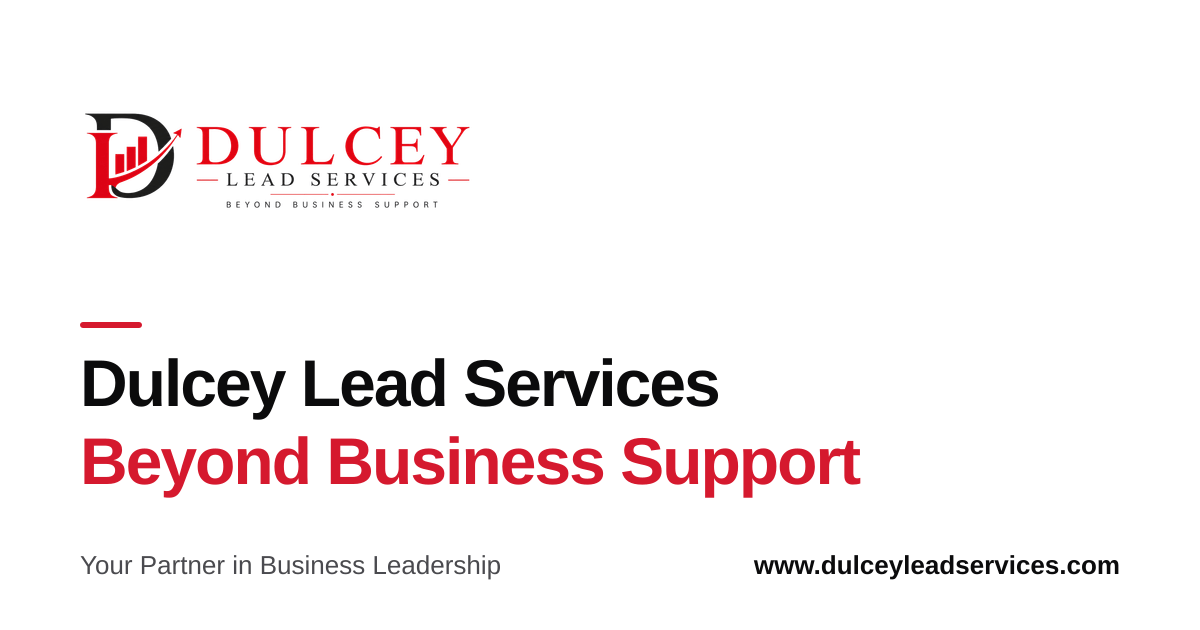
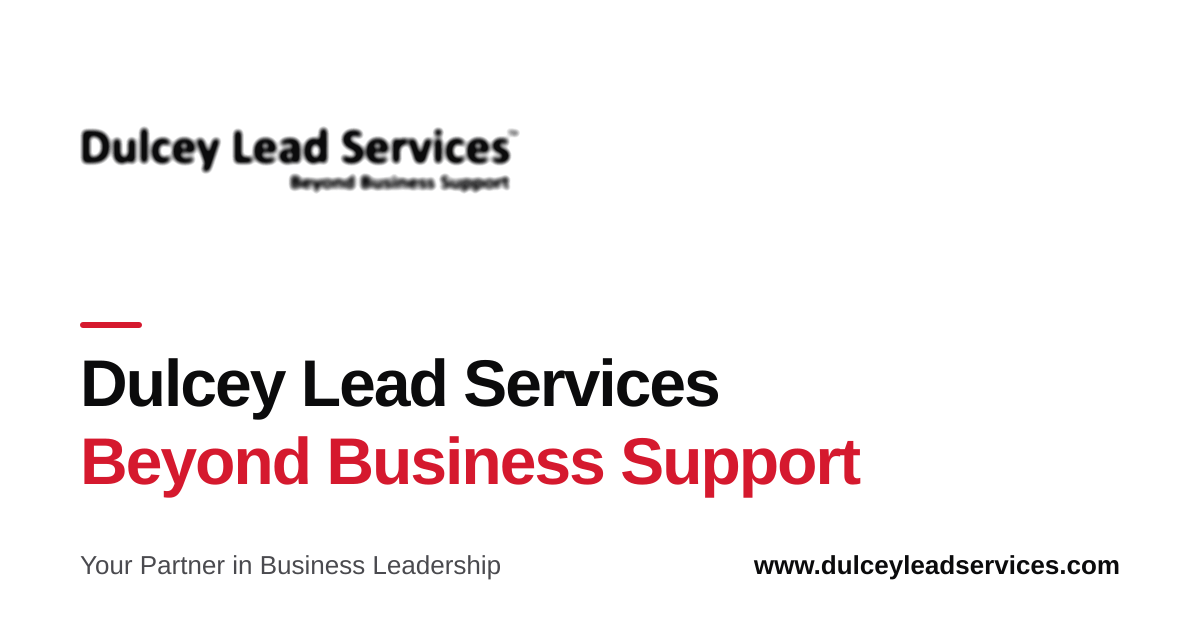
Replace the brand mark with the supplied wordmark
Swaps the old "D" monogram + serif DULCEY lockup for the sans-serif
"Dulcey Lead Services(TM) / Beyond Business Support" wordmark, self-hosted
under public/images/logo/ with a genuinely transparent background. The footer
draws the white variant on its ink panel.

Both PNGs are one 1298x200 master (22 KB, PNG-8 / 128-colour palette) built
from the ink map embedded in the supplied PDF, using its tint channel as the
alpha so the edges stay anti-aliased and no white plate ships with the mark.

The lockup is 6.49:1 where the old one was 3.79:1, so at a given height it
draws ~71% wider. Header steps 40 -> 34 -> 29px at 430/360px, footer clamps to
clamp(38px, 8.5vw, 52px), admin login drops 48 -> 40px, and every surface
carries max-width + object-fit so it letterboxes rather than distorting. No
horizontal overflow at 280/320/360/431/768/1280px.

Supporting changes:
- LOGO_SIZE and absoluteUrl() added to siteConfig; the schema logo has to be
  fully qualified now that the values are root-relative.
- logoAt() returns non-Cloudinary URLs untouched instead of no-op'ing through
  a .replace() that can never match. Only logoIcon still needs it.
- generate:og reads the wordmark off disk, so it no longer needs the network.

Known limitation, recorded in CHANGELOG [2.2.0]: the small tagline line is
soft. In the only supplied artwork its letterforms had already merged - a
horizontal profile across its x-height never dips between letters, only at the
[…]

Changed region(s): [[0.0617, 0.181, 0.4317, 0.3317]]

diff --git a/src/data/siteConfig.js b/src/data/siteConfig.js
@@ -19,8 +19,15 @@ export const siteConfig = {
   // No postal address: the brand material publishes none, and the site
   // deliberately claims none in its schemas either.
   siteUrl: 'https://www.dulceyleadservices.com',
-  logo: `${CLOUDINARY_BASE}/v1785682949/Dulcey-Logo_tmkfku.png`,
-  logoWhite: `${CLOUDINARY_BASE}/v1785682948/Dulcey-Logo-White_pthxu2.png`,
+  // The wordmark lockup, self-hosted under `public/images/logo/`. Both PNGs
+  // carry a real alpha channel — the background is transparent, so the mark
+  // sits on white, grey, and ink surfaces without a plate behind it. They are
+  // one 1298x200 master each rather than a per-surface render; at 22 KB with
+  // `/images/**` served immutable, that is cheaper than the round trips.
+  // Site-root paths, so they resolve from any route — wrap in `absoluteUrl()`
+  // wherever a schema or meta tag needs a fully qualified URL.
+  logo: '/images/logo/dulcey-wordmark.png',
+  logoWhite: '/images/logo/dulcey-wordmark-white.png',
   // The "D" mark. Its Cloudinary public_id still carries the old spelling —
   // that is the asset's immutable delivery path, not a brand string.
   logoIcon: `${CLOUDINARY_BASE}/v1785484838/Dulecy-Logo-Icon_hylrpw.png`,
@@ -44,21 +51,44 @@ export const telHref = `tel:${siteConfig.phone}`;
 export const mailHref = `mailto:${siteConfig.email}`;
 
 /**
- * Display URL for a Cloudinary logo, capped to the size that surface
+ * Intrinsic pixel size of the two wordmark PNGs.
+ *
+ * Every `<img>` that draws the lockup sets these as its `width`/`height`
+ * attributes so the browser reserves the right 6.49:1 box before the file
+ * lands. CSS then sets the rendered height and leaves `width: auto`.
+ */
+export const LOGO_SIZE = { width: 1298, height: 200 };
+
+/**
+ * Absolute URL for a site-root path, left alone if it is already absolute.
+ *
+ * The logos moved from Cloudinary to `public/images/`, so the values in
+ * `siteConfig` are now root-relative. Schemas, Open Graph tags, and anything
+ * else a crawler reads need the fully qualified form.
+ *
+ * @example absoluteUrl(siteConfig.logo)  // https://www.dulceyleadservices.com/images/logo/…
+ */
+export const absoluteUrl = (pathOrUrl) =>
+  /^https?:\/\//i.test(pathOrUrl)
+    ? pathOrUrl
+    : `${siteConfig.siteUrl}${pathOrUrl.startsWith('/') ? '' : '/'}${pathOrUrl}`;
+
+/**
+ * Display URL for a Cloudinary asset, capped to the size that surface
  * actually renders (Prompt 12).
  *
- * The originals are 1800×475 / 1000×1001 PNGs — 500 KB across the three of
- * them — while the header draws the logo 40px tall. `f_auto` negotiates
- * WebP/AVIF, `q_auto:best` keeps a brand mark's edges clean, and `w`/`h`
- * should be passed at **2× the CSS box** so it stays crisp on retina.
+ * `f_auto` negotiates WebP/AVIF, `q_auto:best` keeps a brand mark's edges
+ * clean, and `w`/`h` should be passed at **2× the CSS box** so it stays crisp
+ * on retina.
  *
- * The logos stay on Cloudinary; this only asks for fewer pixels. Pass the
- * untransformed `siteConfig.logo*` values to SEO schemas — crawlers should
- * keep seeing the full-resolution originals.
+ * Only `logoIcon` still lives on Cloudinary — the wordmark is self-hosted and
+ * ships at one size — so a non-Cloudinary URL is returned untouched rather
+ * than silently no-op'ing through a `.replace()` that never matches.
  *
- * @example logoAt(siteConfig.logo, { h: 96 })  // header, 40px tall
+ * @example logoAt(siteConfig.logoIcon, { w: 760 })  // home hero watermark
  */
 export const logoAt = (url, { w, h } = {}) => {
+  if (!url.includes('/image/upload/')) return url;
   const size = [w && `w_${w}`, h && `h_${h}`].filter(Boolean).join(',');
   const transform = ['f_auto', 'q_auto:best', size].filter(Boolean).join(',');
   return url.replace('/image/upload/', `/image/upload/${transform}/`);

diff --git a/scripts/generate-og.js b/scripts/generate-og.js
@@ -20,9 +20,17 @@ const fs = require("fs");
 const path = require("path");
 const sharp = require("sharp");
 
-// Color logo (light backgrounds) — keep in sync with siteConfig.logo.
-const LOGO_URL =
-  "https://res.cloudinary.com/dn9gyaiik/image/upload/v1785682949/Dulcey-Logo_tmkfku.png";
+// Ink lockup (light backgrounds) — keep in sync with siteConfig.logo. Now read
+// off disk rather than fetched: the wordmark is self-hosted, so `npm run
+// generate:og` no longer needs the network.
+const LOGO_FILE = path.resolve(
+  __dirname,
+  "..",
+  "public",
+  "images",
+  "logo",
+  "dulcey-wordmark.png"
+);
 
 const OUT = path.resolve(__dirname, "..", "public", "og-image.png");
 
@@ -34,11 +42,10 @@ const RED = "#D5192E"; // --red (Dulcey red)
 const SLATE = "#4A4A4F"; // --grey-2
 const FONT = "Liberation Sans, DejaVu Sans, Arial, Helvetica, sans-serif";
 
-async function fetchLogo() {
-  const res = await fetch(LOGO_URL);
-  if (!res.ok)
-    throw new Error(`Failed to fetch color logo: HTTP ${res.status}`);
-  return Buffer.from(await res.arrayBuffer());
+function readLogo() {
+  if (!fs.existsSync(LOGO_FILE))
+    throw new Error(`Logo not found at ${LOGO_FILE}`);
+  return fs.readFileSync(LOGO_FILE);
 }
 
 function buildSvg() {
@@ -59,15 +66,17 @@ function buildSvg() {
 }
 
 async function main() {
-  console.log("Fetching Dulcey color logo…");
-  const logoRaw = await fetchLogo();
+  console.log("Reading Dulcey wordmark…");
+  const logoRaw = readLogo();
   const logo = await sharp(logoRaw)
-    .resize({ width: 400, fit: "inside" })
+    .resize({ width: 440, fit: "inside" })
     .png()
     .toBuffer();
   const { height: logoH } = await sharp(logo).metadata();
 
-  const base = sharp(buildSvg()).png();
+  // The wordmark is transparent, so flatten the SVG plate first — compositing
+  // a transparent mark straight onto the base is what keeps the edges clean.
+  const base = sharp(buildSvg()).flatten({ background: WHITE }).png();
   const composed = await base
     .composite([{ input: logo, left: 80, top: Math.round(160 - logoH / 2) }])
     .png({ compressionLevel: 9, palette: true })

diff --git a/src/admin/components/AdminTopbar.jsx b/src/admin/components/AdminTopbar.jsx
@@ -6,12 +6,12 @@ import React, { useState, useRef, useEffect } from 'react';
 import { NavLink, useLocation } from 'react-router-dom';
 import { Icon } from '@iconify/react';
 import { useAdminAuth } from '../context/AdminAuthContext';
-import { siteConfig, logoAt } from '../../data/siteConfig';
+import { siteConfig, LOGO_SIZE } from '../../data/siteConfig';
 import styles from './AdminTopbar.module.css';
 
-// Colour logo — the topbar and the mobile menu are both white surfaces.
-// Drawn 32px tall (24px on mobile); requested at 2x for retina.
-const BRAND_LOGO = logoAt(siteConfig.logo, { h: 64 });
+// Ink lockup — the topbar and the mobile menu are both white surfaces.
+// Drawn 32px tall in the bar, 28px in the mobile menu.
+const BRAND_LOGO = siteConfig.logo;
 
 const navItems = [
   { label: 'Dashboard', path: '/admin/dashboard', icon: 'mdi:view-dashboard' },
@@ -66,8 +66,8 @@ const AdminTopbar = () => {
           src={BRAND_LOGO}
           alt={siteConfig.brandName}
           className={styles.logo}
-          width="242"
-          height="64"
+          width={LOGO_SIZE.width}
+          height={LOGO_SIZE.height}
         />
         <span className={styles.divider} />
         <span className={styles.wordmark}>Admin Panel</span>
@@ -121,8 +121,8 @@ const AdminTopbar = () => {
                 src={BRAND_LOGO}
                 alt={siteConfig.brandName}
                 className={styles.mobileMenuLogo}
-                width="242"
-                height="64"
+                width={LOGO_SIZE.width}
+                height={LOGO_SIZE.height}
               />
             </div>
 

diff --git a/public/index.html b/public/index.html
@@ -136,7 +136,8 @@
          ========================================= -->
     <link rel="preconnect" href="https://fonts.googleapis.com" />
     <link rel="preconnect" href="https://fonts.gstatic.com" crossorigin />
-    <!-- Cloudinary serves the logo in the header/footer of every page. -->
+    <!-- Cloudinary still serves the splash "D" mark below; the header/footer
+         wordmark is self-hosted from /images/logo/. -->
     <link rel="preconnect" href="https://res.cloudinary.com" />
     <link rel="dns-prefetch" href="https://fonts.googleapis.com" />
     <link rel="dns-prefetch" href="https://fonts.gstatic.com" />
@@ -239,7 +240,7 @@
         "name": "Dulcey Lead Services",
         "legalName": "Dulcey Lead Services",
         "url": "https://www.dulceyleadservices.com",
-        "logo": "https://res.cloudinary.com/dn9gyaiik/image/upload/v1785682949/Dulcey-Logo_tmkfku.png",
+        "logo": "https://www.dulceyleadservices.com/images/logo/dulcey-wordmark.png",
         "description": "A professional business support and consulting organization — helping businesses, institutions, entrepreneurs, and professionals build for sustainable growth.",
         "slogan": "Beyond Business Support",
         "contactPoint": {
@@ -298,7 +299,7 @@
           "name": "Dulcey Lead Services",
           "logo": {
             "@type": "ImageObject",
-            "url": "https://res.cloudinary.com/dn9gyaiik/image/upload/v1785682949/Dulcey-Logo_tmkfku.png"
+            "url": "https://www.dulceyleadservices.com/images/logo/dulcey-wordmark.png"
           }
         }
       }

diff --git a/src/components/common/Footer/Footer.jsx b/src/components/common/Footer/Footer.jsx
@@ -10,7 +10,12 @@
 import React from 'react';
 import { Link } from 'react-router-dom';
 import { useModal } from '../../../context/ModalContext';
-import { siteConfig, telHref, mailHref, logoAt } from '../../../data/siteConfig';
+import {
+  siteConfig,
+  telHref,
+  mailHref,
+  LOGO_SIZE,
+} from '../../../data/siteConfig';
 import { NAV_LINKS } from '../../../data/navigation';
 import styles from './Footer.module.css';
 
@@ -44,12 +49,13 @@ const Footer = () => {
         <div className={styles.cols}>
           <div className={styles.brand}>
             <Link to="/" aria-label={`${siteConfig.brandName} — Home`}>
-              {/* Drawn 52px tall; requested at 2× for retina. */}
+              {/* The footer sits on ink, so this is the white lockup — same
+                  transparent mark, painted white instead of --ink. */}
               <img
-                src={logoAt(siteConfig.logoWhite, { h: 128 })}
+                src={siteConfig.logoWhite}
                 alt={siteConfig.brandName}
-                width="485"
-                height="128"
+                width={LOGO_SIZE.width}
+                height={LOGO_SIZE.height}
                 loading="lazy"
                 decoding="async"
               />

diff --git a/src/components/common/Header/Header.jsx b/src/components/common/Header/Header.jsx
@@ -11,7 +11,7 @@
 import React from 'react';
 import { Link, NavLink } from 'react-router-dom';
 import { useModal } from '../../../context/ModalContext';
-import { siteConfig, logoAt } from '../../../data/siteConfig';
+import { siteConfig, LOGO_SIZE } from '../../../data/siteConfig';
 import { NAV_LINKS } from '../../../data/navigation';
 import styles from './Header.module.css';
 
@@ -26,12 +26,13 @@ const Header = ({ isMenuOpen = false, onToggleMenu, menuId = 'mobile-menu' }) =>
           className={styles.logo}
           aria-label={`${siteConfig.brandName} — Home`}
         >
-          {/* Drawn 40px tall; requested at 2× for retina. */}
+          {/* Drawn 40px tall (32px on narrow phones — see the module CSS);
+              the intrinsic size reserves the 6.49:1 box against layout shift. */}
           <img
-            src={logoAt(siteConfig.logo, { h: 96 })}
+            src={siteConfig.logo}
             alt={siteConfig.brandName}
-            width="364"
-            height="96"
+            width={LOGO_SIZE.width}
+            height={LOGO_SIZE.height}
             decoding="async"
           />
         </Link>

diff --git a/src/admin/components/AdminLogin.jsx b/src/admin/components/AdminLogin.jsx
@@ -6,7 +6,7 @@ import React, { useState } from 'react';
 import { Navigate } from 'react-router-dom';
 import { TextField, Checkbox, CircularProgress } from '@mui/material';
 import { useAdminAuth } from '../context/AdminAuthContext';
-import { siteConfig, logoAt } from '../../data/siteConfig';
+import { siteConfig, LOGO_SIZE } from '../../data/siteConfig';
 import styles from './AdminLogin.module.css';
 
 const AdminLogin = () => {
@@ -41,12 +41,12 @@ const AdminLogin = () => {
       <div className={styles.loginCard}>
         <div className={styles.loginHeader}>
           <div className={styles.loginLogo}>
-            {/* Colour logo — the card behind it is white. */}
+            {/* Ink lockup — the card behind it is white. */}
             <img
-              src={logoAt(siteConfig.logo, { h: 96 })}
+              src={siteConfig.logo}
               alt={siteConfig.brandName}
-              width="364"
-              height="96"
+              width={LOGO_SIZE.width}
+              height={LOGO_SIZE.height}
             />
           </div>
           <h1 className={styles.loginTitle}>{siteConfig.brandName}</h1>

diff --git a/src/admin/pages/Guideline.jsx b/src/admin/pages/Guideline.jsx
@@ -7,7 +7,7 @@ import React, { useState, useEffect } from "react";
 import { useNavigate } from "react-router-dom";
 import { TextField, IconButton } from "@mui/material";
 import { Icon } from "@iconify/react";
-import { siteConfig, logoAt } from "../../data/siteConfig";
+import { siteConfig, LOGO_SIZE } from "../../data/siteConfig";
 import styles from "./Guideline.module.css";
 import LeadStorageGuide from "./guidelineContent/LeadStorageGuide";
 import SEOSetupGuide from "./guidelineContent/SEOSetupGuide";
@@ -79,11 +79,11 @@ const Guideline = () => {
       <div className={styles.modalOverlay}>
         <div className={styles.modalCard}>
           <img
-            src={logoAt(siteConfig.logo, { h: 80 })}
+            src={siteConfig.logo}
             alt={siteConfig.brandName}
             className={styles.modalLogo}
-            width="303"
-            height="80"
+            width={LOGO_SIZE.width}
+            height={LOGO_SIZE.height}
           />
           <h2 className={styles.modalTitle}>Restricted Access</h2>
           <p className={styles.modalSubtitle}>

diff --git a/src/config/seo.js b/src/config/seo.js
@@ -23,7 +23,7 @@
    hours, aggregate ratings, and FAQPage (the site has no visible FAQ).
    ============================================ */
 
-import { siteConfig } from '../data/siteConfig';
+import { siteConfig, absoluteUrl } from '../data/siteConfig';
 import { expertiseAreas, expertiseTitles } from '../data/expertiseData';
 import { industries } from '../data/industriesData';
 import { NAV_LINKS } from '../data/navigation';
@@ -68,7 +68,9 @@ export const seoConfig = {
     name: siteConfig.brandName,
     legalName: siteConfig.legalName,
     url: SITE_URL,
-    logo: siteConfig.logo, // color logo (light backgrounds)
+    // The ink lockup (light backgrounds). The logos are self-hosted now, so
+    // the config value is a root-relative path — a crawler needs it absolute.
+    logo: absoluteUrl(siteConfig.logo),
     // The footer brand paragraph, verbatim.
     description:
       'A professional business support and consulting organization — helping businesses, institutions, entrepreneurs, and professionals build for sustainable growth.',

diff --git a/src/components/common/Header/Header.module.css b/src/components/common/Header/Header.module.css
@@ -39,6 +39,8 @@
 .logo img {
   height: 40px;
   width: auto;
+  max-width: 100%;
+  object-fit: contain;
   display: block;
 }
 
@@ -150,6 +152,21 @@
 
   .burger {
     display: flex;
+  }
+}
+
+/* The wordmark is a wide 6.49:1 lockup, so at 40px tall it draws 260px — on a
+   narrow phone that crowds the burger and pushes the header row over. Step the
+   height down instead of letting the logo shrink-to-fit and go soft. */
+@media (max-width: 430px) {
+  .logo img {
+    height: 34px;
+  }
+}
+
+@media (max-width: 360px) {
+  .logo img {
+    height: 29px;
   }
 }
 

diff --git a/src/components/common/Footer/Footer.module.css b/src/components/common/Footer/Footer.module.css
@@ -95,9 +95,15 @@
   min-width: 260px;
 }
 
+/* The lockup is 6.49:1, so 52px tall is ~337px wide — wider than the brand
+   column's 260px floor on a phone. Scale with the viewport between 38px and
+   52px, and keep `max-width` + `object-fit` as a floor so it letterboxes
+   rather than distorting if the column ever gets narrower still. */
 .brand img {
-  height: 52px;
+  height: clamp(38px, 8.5vw, 52px);
   width: auto;
+  max-width: 100%;
+  object-fit: contain;
   display: block;
   margin-bottom: 20px;
 }

diff --git a/src/admin/components/AdminLogin.module.css b/src/admin/components/AdminLogin.module.css
@@ -29,9 +29,13 @@
   margin: 0 auto var(--space-4);
 }
 
+/* 40px, not 48px: the 6.49:1 wordmark draws 260px wide there, which still
+   clears the card's content box once the mobile padding kicks in. */
 .loginLogo img {
-  height: 48px;
+  height: 40px;
   width: auto;
+  max-width: 100%;
+  object-fit: contain;
   display: block;
   margin: 0 auto;
 }
